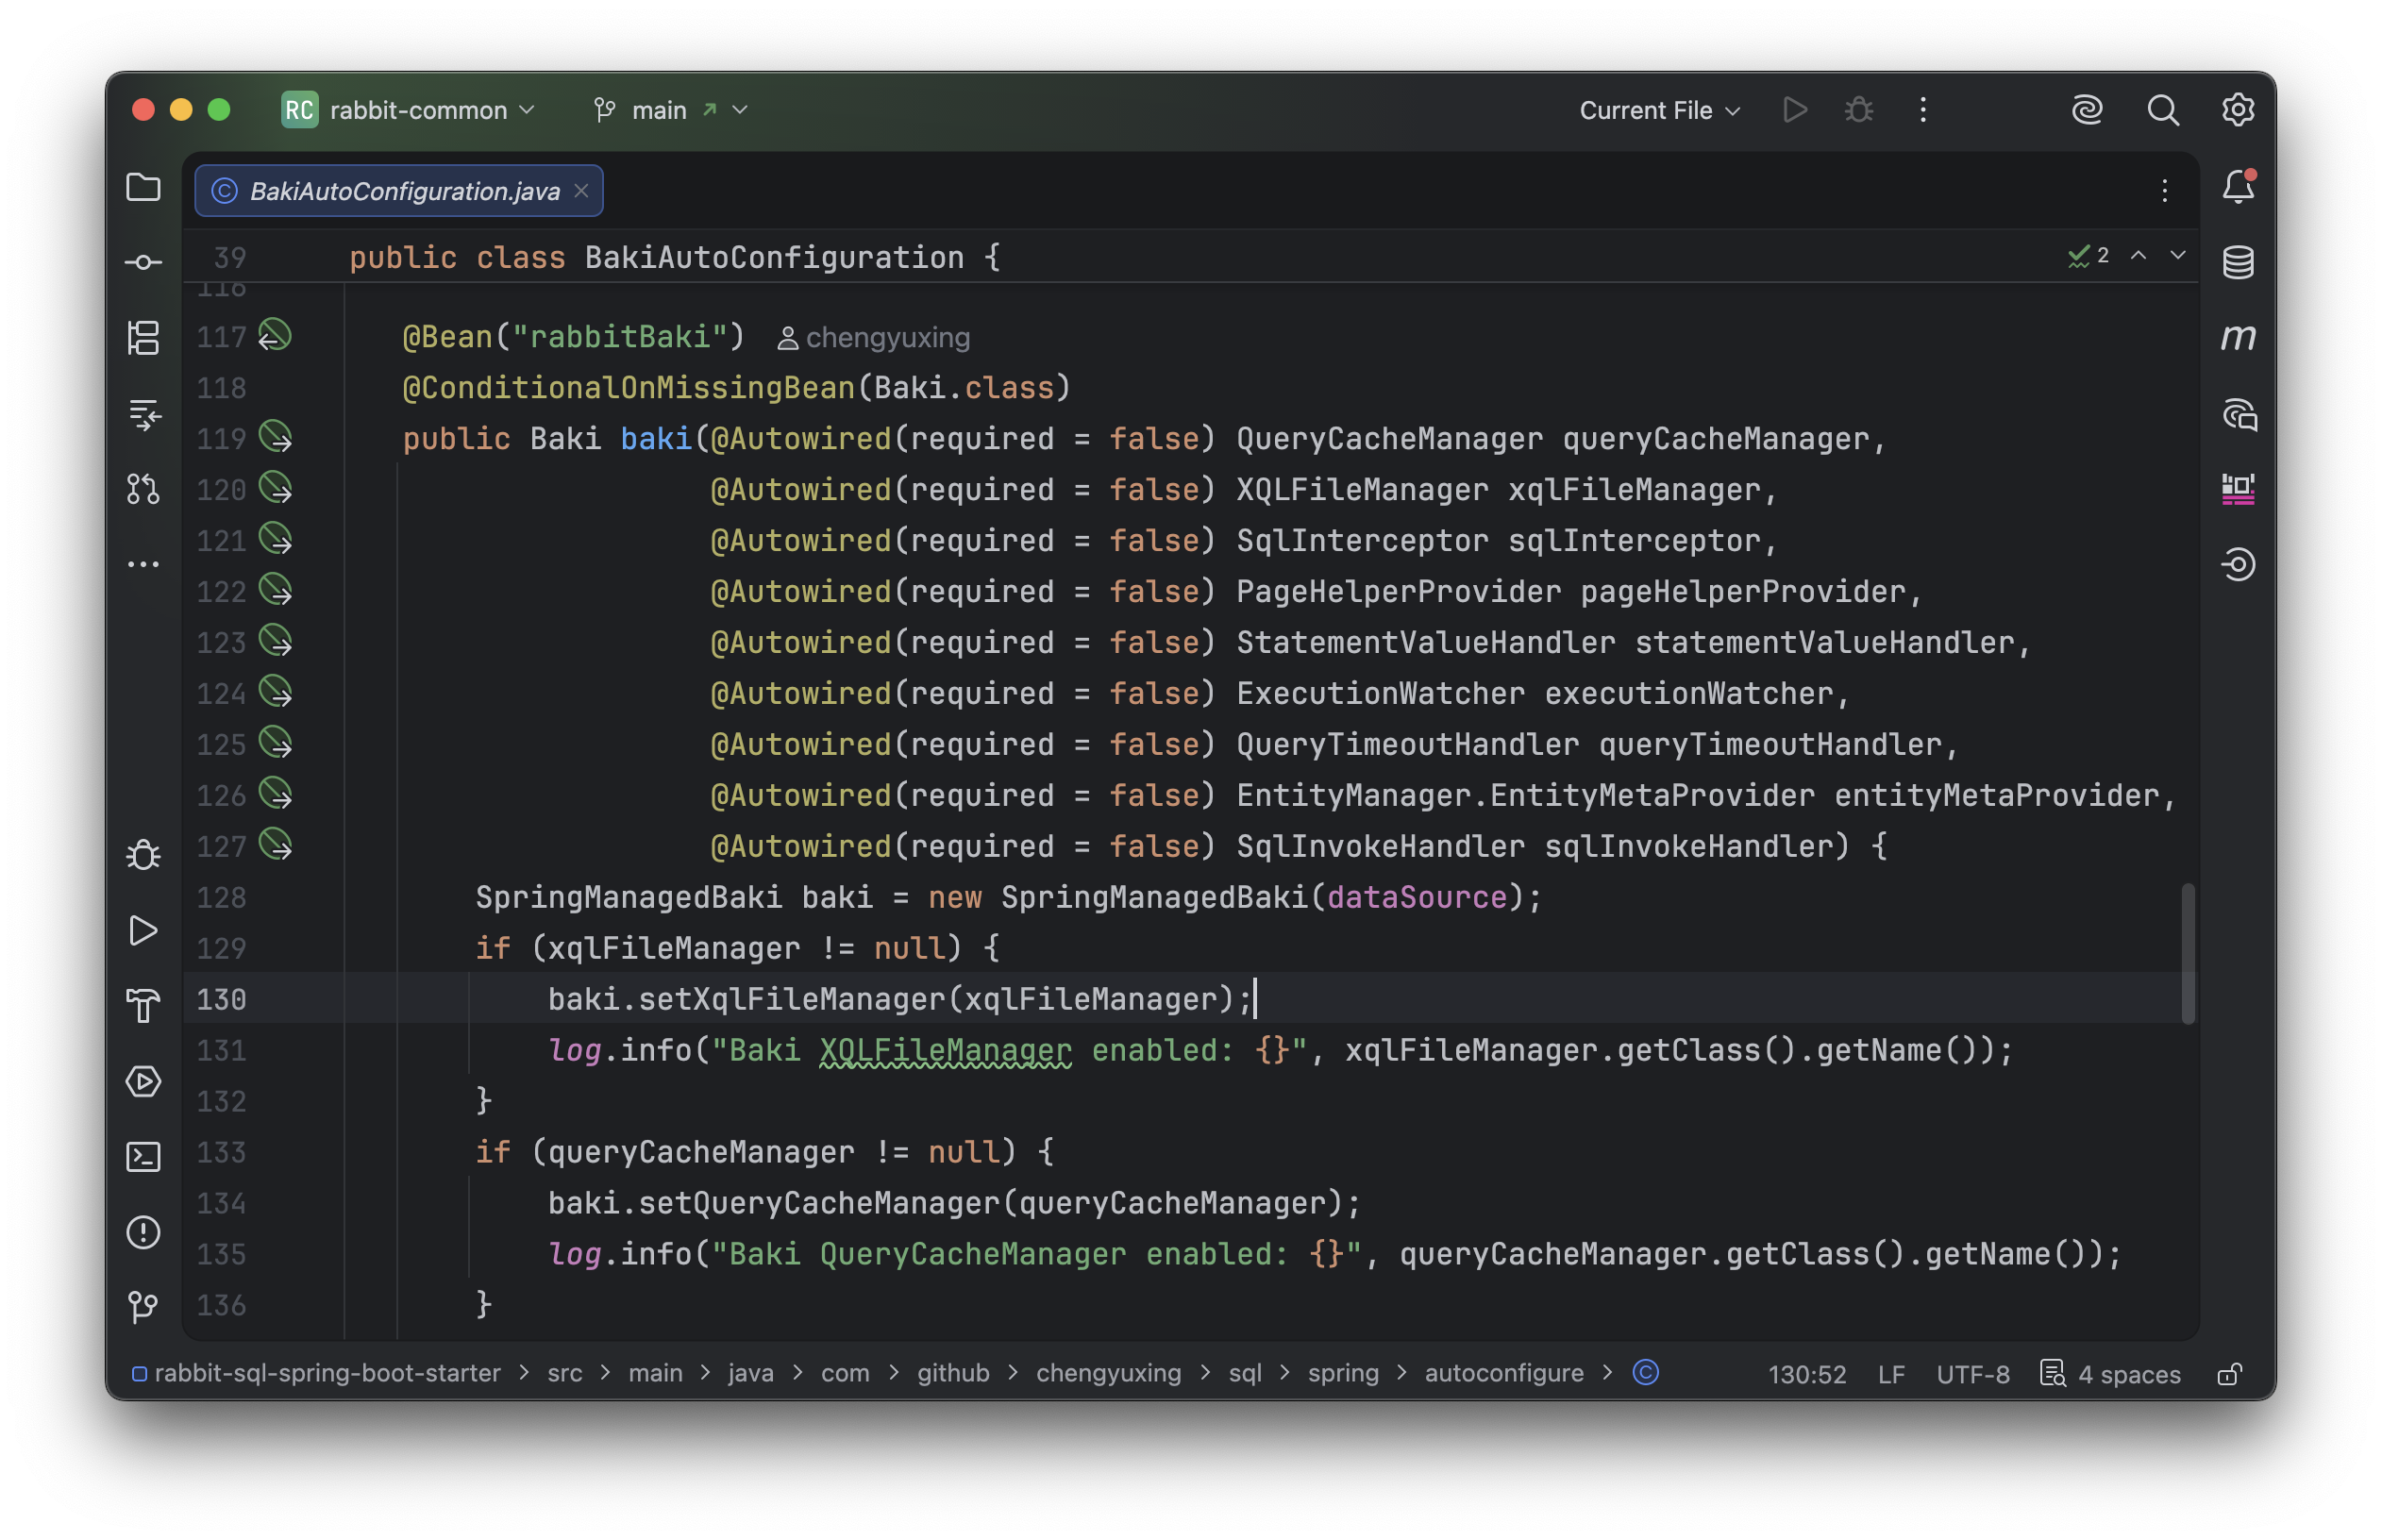
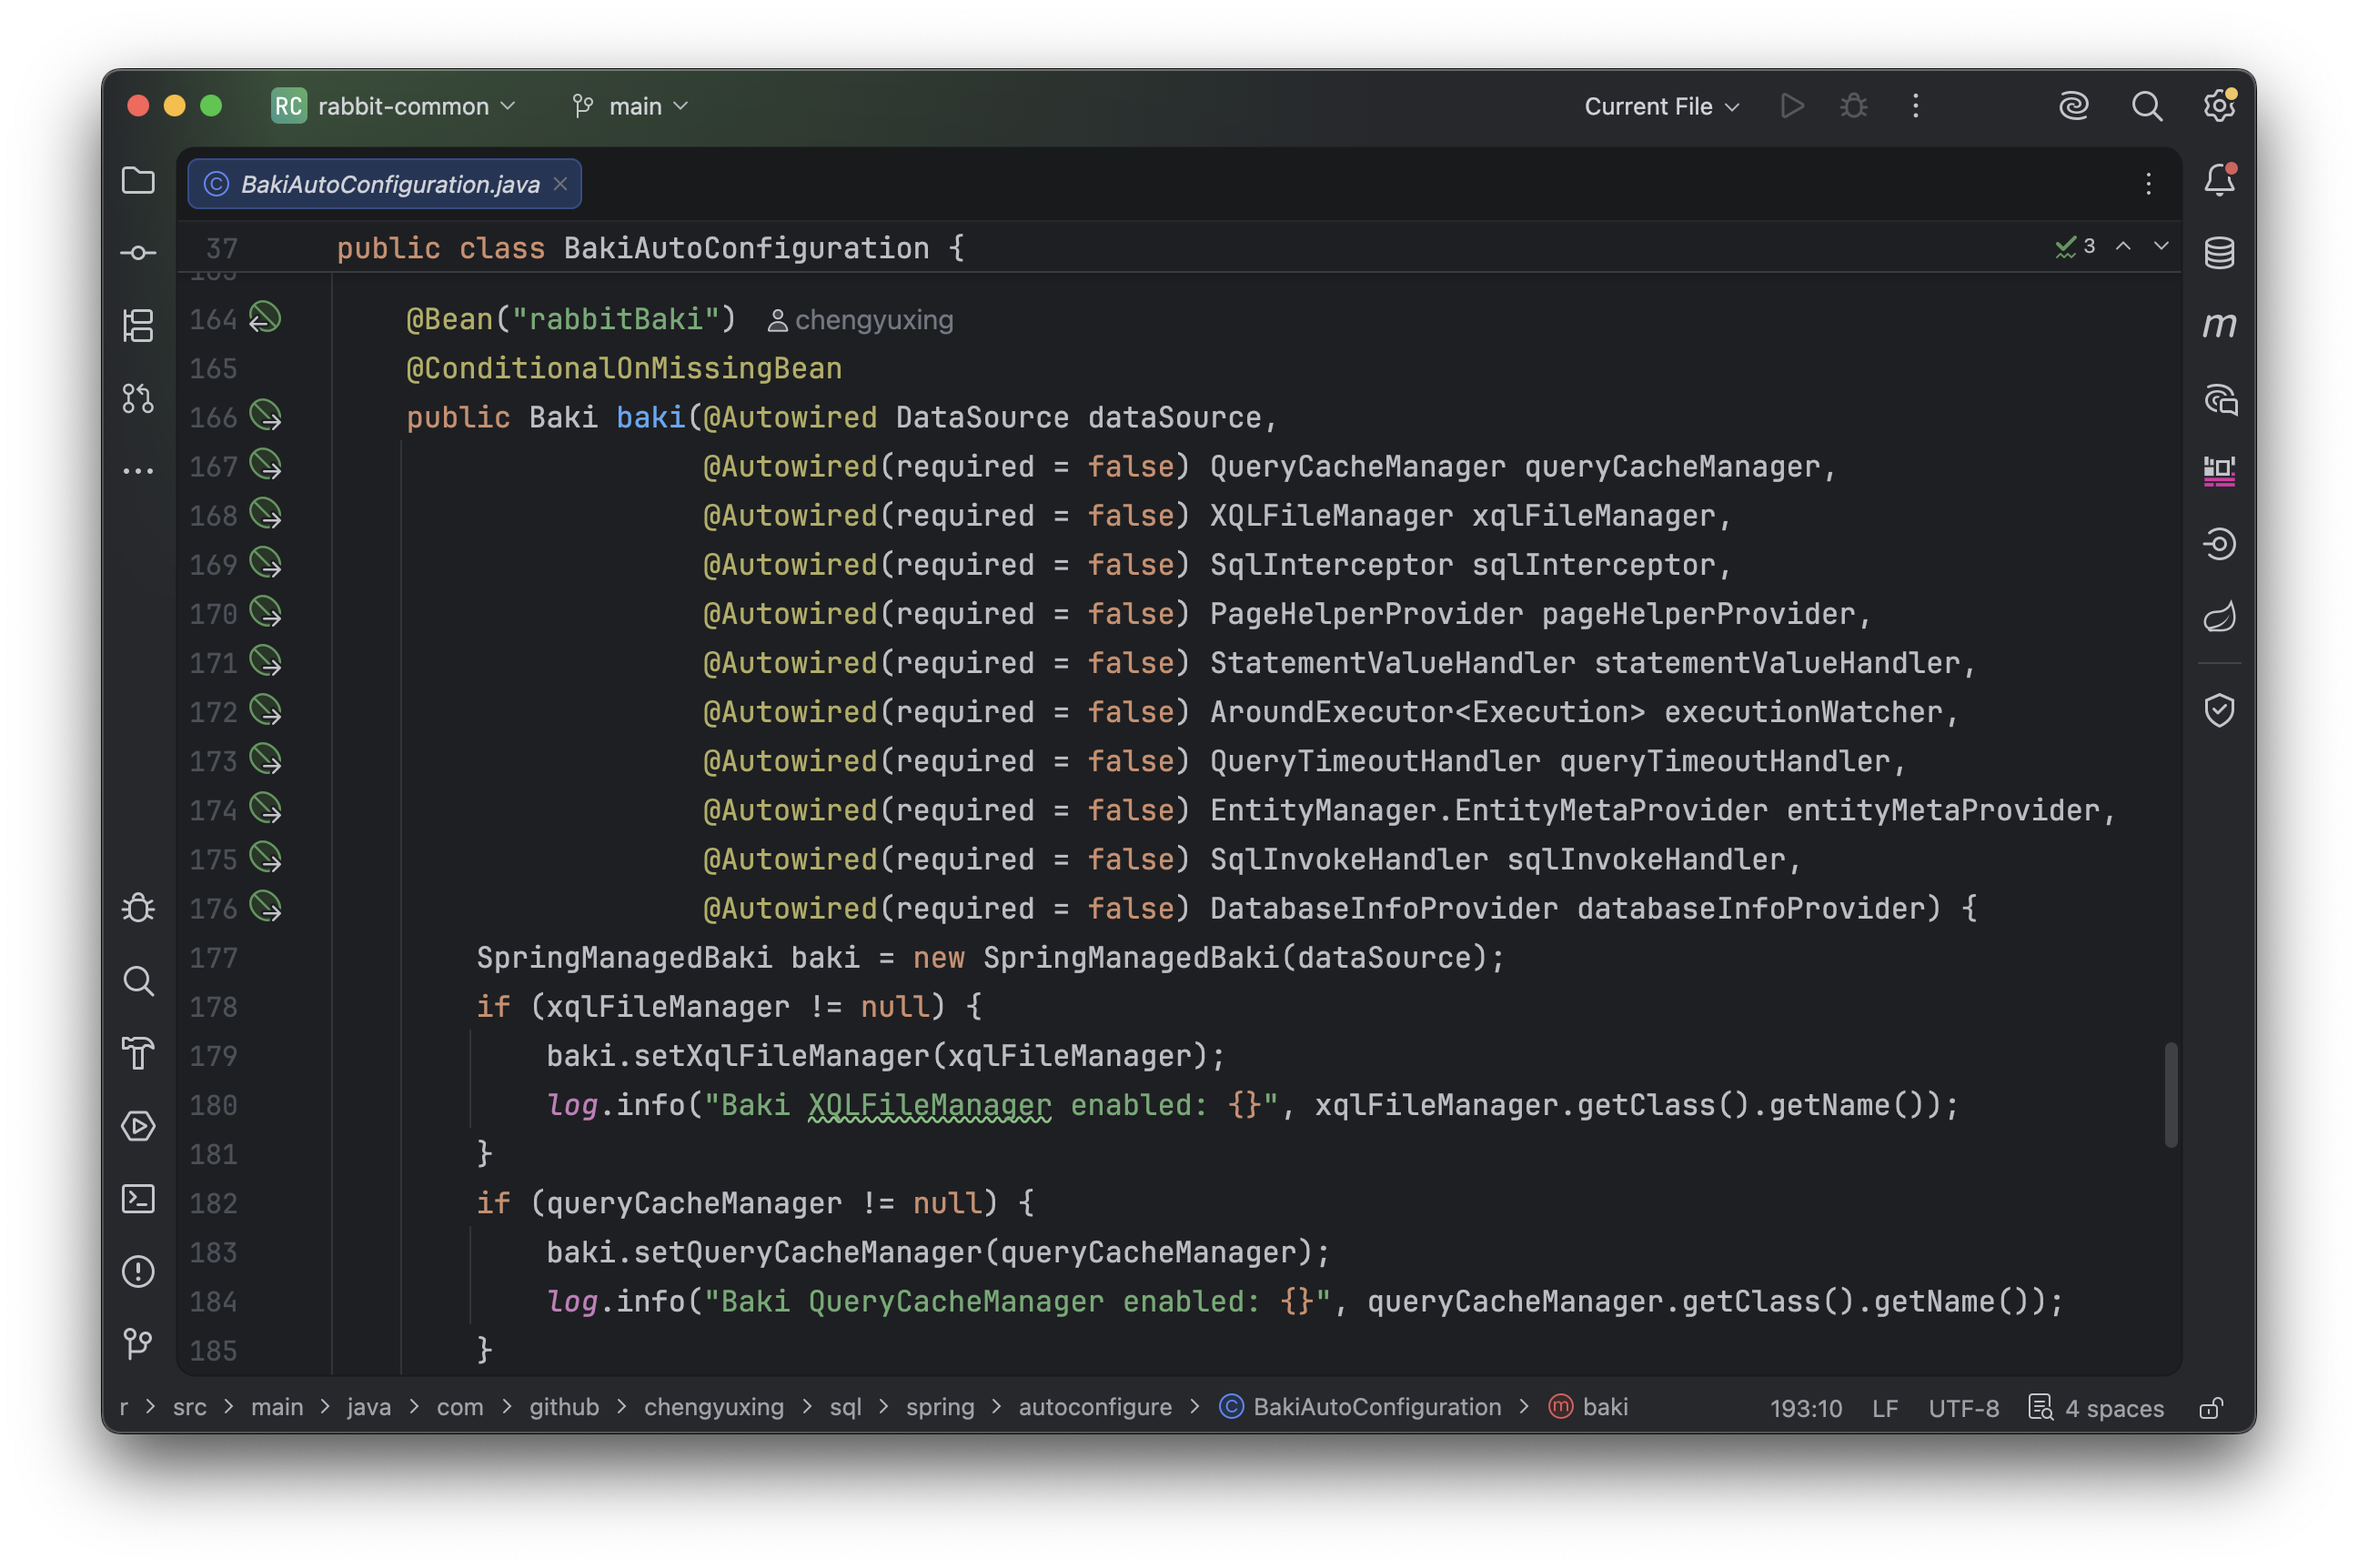
update doc

Changed region(s): [[0.0309, 0.0312, 0.958, 0.9375], [0.8962, 0.5625, 0.9271, 0.7188], [0.9271, 0.4375, 0.958, 0.4688]]

diff --git a/src/app/app.component.html b/src/app/app.component.html
@@ -44,10 +44,10 @@
   <div class="settings">
     <button mat-button [matMenuTriggerFor]="versionMenu">
       <mat-icon>arrow_drop_down</mat-icon>
-      10.3.8
+      10.3.9
     </button>
     <mat-menu #versionMenu=matMenu>
-      <a mat-menu-item>10.3.8 (latest)</a>
+      <a mat-menu-item>10.3.9 (latest)</a>
       <a mat-menu-item href="https://rabbitsql.cn/v9">9.0.20</a>
     </mat-menu>
     <a mat-icon-button [href]="github" target="_blank" matTooltip="Github">

diff --git a/public/guides/dynamic-routing-datasource.md b/public/guides/dynamic-routing-datasource.md
@@ -3,7 +3,7 @@
 以 Spring Boot 框架为例，将动态路由数据源整合进 BakiDao 中，无侵入式的使用动态路由数据源，需要准备以下几点：
 
 1. 使用 Spring Boot 框架
-2. 引入 `rabbit-sql-spring-boot-starter` 版本 5.3.8+
+2. 引入 `rabbit-sql-spring-boot-starter` 版本 5.3.9+
 3. 引入一个[动态路由数据源](https://github.com/baomidou/dynamic-datasource)例如：`dynamic-datasource-spring-boot-starter`
 4. 重写 `BakiDao` 相关方法
 5. 添加到 Spring 上下文容器中
@@ -11,6 +11,8 @@
 > 基于 Spring Boot ，动态路由数据源路由能力实际上内置支持 `AbstractRoutingDataSource`，具体的实现扩展有很多，或者自己实现一个满足特定业务的动态数据源也行。
 
 ## 核心接口配置
+
+### 5.3.9以下
 
 继承 `SpringManagedBaki` 重写方法 `databaseInfo()`：
 
@@ -51,7 +53,7 @@ public DynamicDatasourceBaki extends SpringManagedBaki{
 
 ```java
 @Bean
-public Baki baki(@DataSource dataSource,
+public Baki baki(DataSource dataSource,
                 XQLFileManager xqlFileManager){
    DynamicDatasourceBaki baki = new DynamicDatasourceBaki(dataSource);
    baki.setXQLFileManager(xqlFileManager);
@@ -62,6 +64,28 @@ public Baki baki(@DataSource dataSource,
 根据需要注入其他扩展实现如图：
 
 ![](../images/spring-boot-auto-config.png)
+
+### 5.3.9+
+
+无需重写 `BakiDao#databaseInfo` ，实现接口 `com.github.chengyuxing.sql.plugins.DatabaseInfoProvider` 配置为 Bean 即可生效。
+
+```java
+@Component
+public class DynamicDatabaseInfoProvider implements DatabaseInfoProvider {
+    private final Map<String, DatabaseInfo> INFO = new ConcurrentHashMap<>();
+
+    @Override
+    public @Nullable DatabaseInfo resolve(@NotNull DataSource dataSource, Supplier<DatabaseInfo> supplier) {
+        if (dataSource instanceof DynamicDataSource) {
+            String key = DynamicDataSourceContextHolder.peek();
+            return INFO.computeIfAbsent(key, k -> supplier.get());
+        }
+        return null;
+    }
+}
+```
+
+> 以上实现同样建议使用缓存，每次调用 `Supplier<DatabaseInfo> supplier` 都会获取一个连接，使用缓存避免不必要的开销。
 
 ## 应用
 

diff --git a/public/documents/changes.md b/public/documents/changes.md
@@ -1,5 +1,15 @@
 # 框架变更日志
 
+# 10.3.9
+
+- ✅ 新增属性接口： `BakiDao#databaseInfoProvider` ，在动态数据源框架下，无需重写 `BakiDao#databaseInfo` 
+- ✅ `BakiDao#executionWatcher` 环绕执行器优化
+- ❌ 删除接口 `ExecutionWatcher`
+- ✅ `rabbit-sql-spring-boot-starter` 更新版本 `5.3.9`
+  - ✅ 自动配置逻辑优化
+  - ✅ 增加自动装配 `DatabaseInfoProvider` 接口 Bean
+  - ⚠️ 自动装配 `ExecutionWatcher` 改为 `AroundExecutor<Execution>`
+
 # 10.3.8
 
 - ✅ 修改方法：`IPageable#disableDefaultPageSql` 接收2个参数 `start` 和 `end`

diff --git a/public/documents/best-practice.md b/public/documents/best-practice.md
@@ -23,7 +23,7 @@ _java 8+_
 <dependency>
     <groupId>com.github.chengyuxing</groupId>
     <artifactId>rabbit-sql-spring-boot-starter</artifactId>
-    <version>5.3.8</version>
+    <version>5.3.9</version>
 </dependency>
 ```
 

diff --git a/public/documents/with-spring-boot.md b/public/documents/with-spring-boot.md
@@ -20,7 +20,7 @@
 <dependency>
     <groupId>com.github.chengyuxing</groupId>
     <artifactId>rabbit-sql-spring-boot-starter</artifactId>
-    <version>5.3.8</version>
+    <version>5.3.9</version>
 </dependency>
 ```
 

diff --git a/public/guides/initialization.md b/public/guides/initialization.md
@@ -8,7 +8,7 @@ _java 8+_
 <dependency>
     <groupId>com.github.chengyuxing</groupId>
     <artifactId>rabbit-sql</artifactId>
-    <version>10.3.8</version>
+    <version>10.3.9</version>
 </dependency>
 ```
 

diff --git a/public/guides/spring-boot-starter.md b/public/guides/spring-boot-starter.md
@@ -8,7 +8,7 @@ _java 8+_
 <dependency>
     <groupId>com.github.chengyuxing</groupId>
     <artifactId>rabbit-sql-spring-boot-starter</artifactId>
-    <version>5.3.8</version>
+    <version>5.3.9</version>
 </dependency>
 
 ```